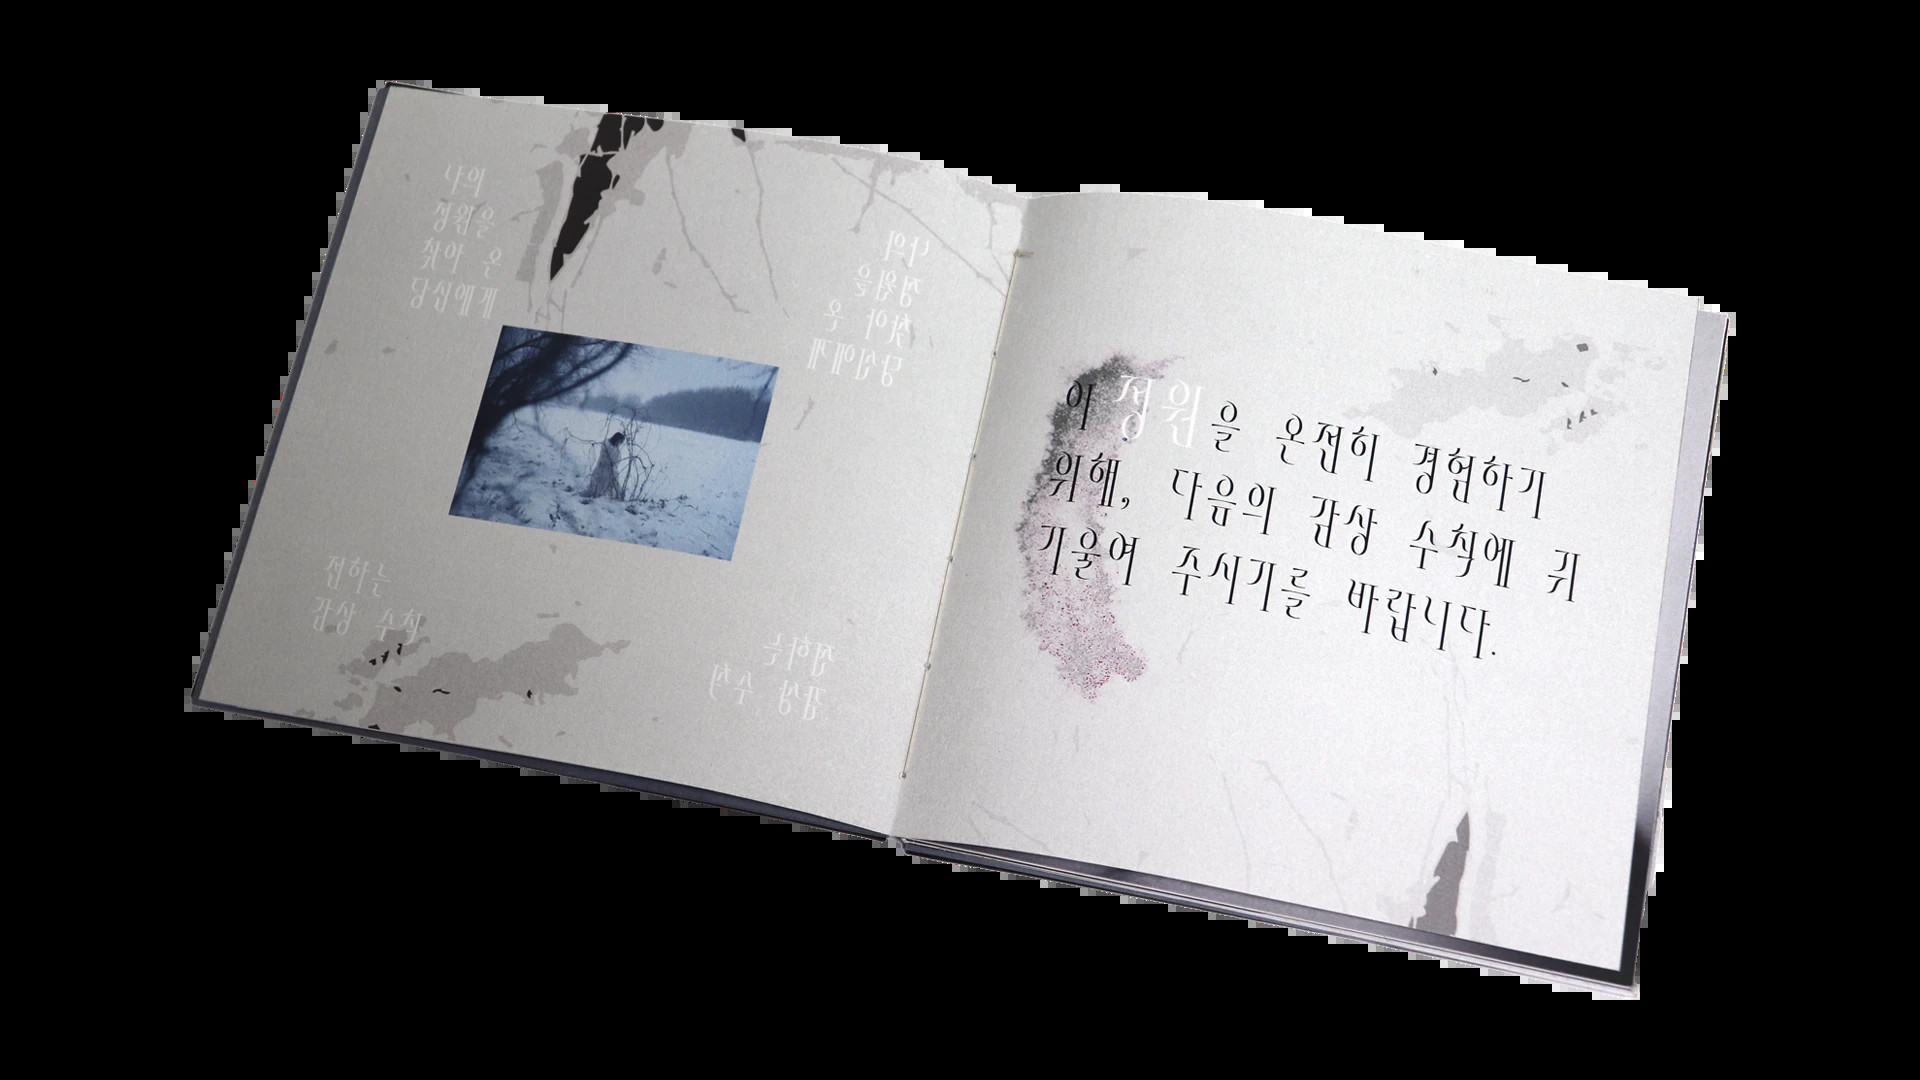
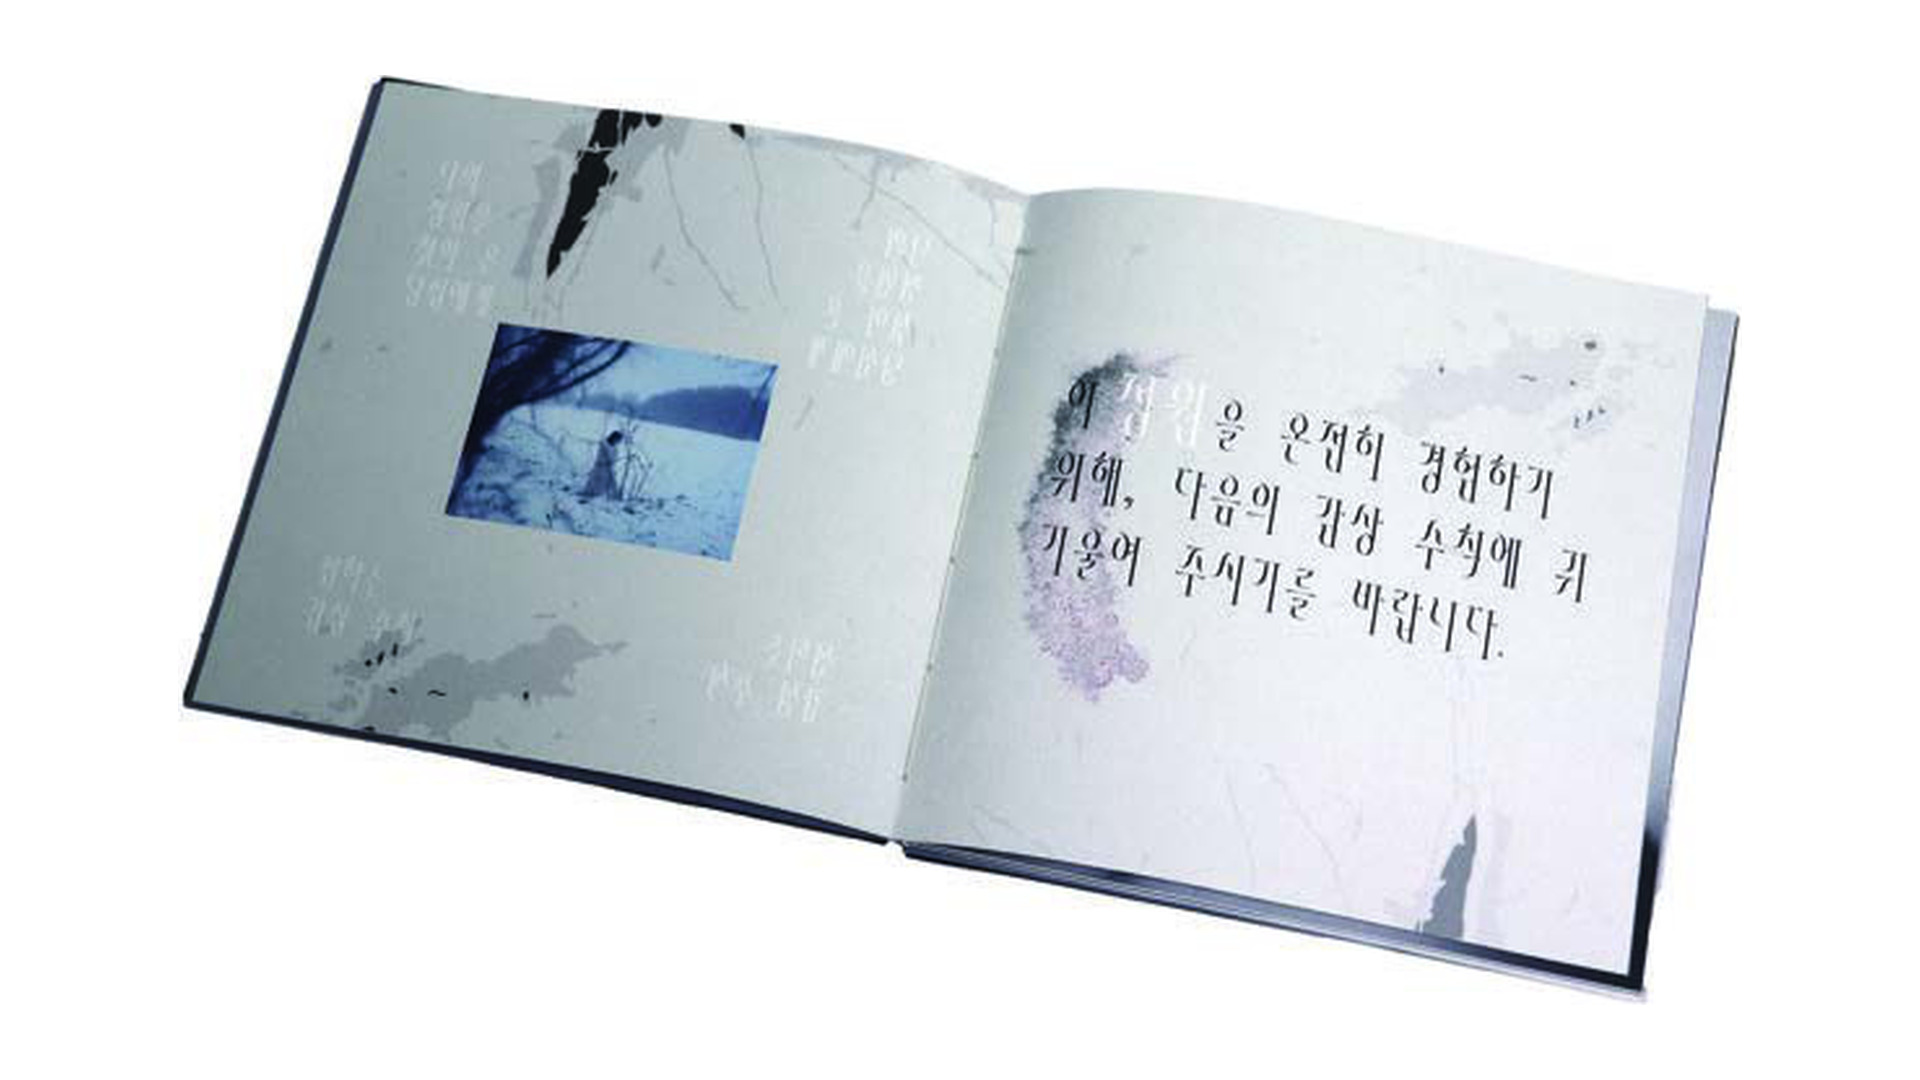
영문판에서 한국어 노출 제거 + 글·아카이브 영문 번역
- 영문 모드: 작업 제목·내비게이션·이름 아래 한글 라벨을 숨김 (About 본문은 아직 원고 대기)
- 글 2편과 아카이브 4항목에 영문 번역 추가 (en 하위 객체 + P() 헬퍼)
- 연락처: 영문판 전화 +1 (213) 783 6230, Based in Los Angeles
- 나의 정원에게 지면 4장을 복수전공 포트폴리오 원본에서 다시 추출
  (기존 컷아웃은 원본 가장자리가 계단형이라 흰 배경에서 깨져 보였음)

diff --git a/assets/js/app.js b/assets/js/app.js
@@ -46,6 +46,8 @@
   function esc(s) { return String(s == null ? "" : s).replace(/[&<>"']/g, function (c) { return ({ "&": "&amp;", "<": "&lt;", ">": "&gt;", '"': "&quot;", "'": "&#39;" })[c]; }); }
   function cat(key) { for (var i = 0; i < S.categories.length; i++) if (S.categories[i].key === key) return S.categories[i]; return { ko: key, en: key }; }
   function catName(key) { var c = cat(key); return lang === "en" ? c.en : c.ko; }
+  /* 글·아카이브처럼 한 덩어리에 en 하위 객체를 둔 항목에서 언어에 맞는 값을 고른다 */
+  function P(o, k) { return (lang === "en" && o.en && o.en[k]) ? o.en[k] : o[k]; }
   function resolve(p) { return (window.RESOLVE_ASSET ? window.RESOLVE_ASSET(p) : p); }
   function img(w, name) { return resolve("/images/works/" + name); }
   function bodyOf(w) { return (lang === "en" && w.bodyEn && w.bodyEn.length) ? w.bodyEn : w.body; }
@@ -112,7 +114,7 @@
     if (!seg[0]) return lang === "en" ? "Yea Bin Shin" : "신예빈";
     if (seg[0] === "work") { var w = find(seg[1]); return w ? L(w.title) : t("works"); }
     if (seg[0] === "admin") return "관리자";
-    if (seg[0] === "writing" && seg[1]) { var o = WRITINGS_().filter(function (x) { return x.slug === seg[1]; })[0]; return o ? o.title : t("writing"); }
+    if (seg[0] === "writing" && seg[1]) { var o = WRITINGS_().filter(function (x) { return x.slug === seg[1]; })[0]; return o ? P(o, "title") : t("writing"); }
     return t(seg[0] === "works" ? "works" : seg[0]) || "";
   }
   function find(slug) { return WORKS_().filter(function (w) { return w.slug === slug; })[0]; }
@@ -131,10 +133,10 @@
       picks.map(function (w, i) {
         return '<a class="cl-fig cl-' + (i + 1) + '" href="/work/' + w.slug + '" data-link data-d="' + DEPTH[i] + '">' +
           '<img src="' + img(w, w.cover || w.images[0]) + '" alt="' + esc(L(w.title)) + '" ' + (i > 1 ? 'loading="lazy"' : '') + '>' +
-          '<span class="cl-cap">' + esc(w.title.ko) + ' — ' + esc(w.year) + '</span></a>';
+          '<span class="cl-cap">' + esc(L(w.title)) + ' — ' + esc(w.year) + '</span></a>';
       }).join("") + '</div>' +
       '<div class="cl-meta">' +
-      '<h1 class="cl-name">' + esc(S.name.en.toLowerCase()) + '<small>' + esc(S.name.ko) + '</small></h1>' +
+      '<h1 class="cl-name">' + esc(S.name.en.toLowerCase()) + (lang === "en" ? "" : '<small>' + esc(S.name.ko) + '</small>') + '</h1>' +
       '<p class="cl-idx">' + WORKS_().length + ' works<br>' + S.categories.length + ' categories</p>' +
       '<p class="cl-motto">' + esc(L(S.motto)) + '</p>' +
       '<p class="cl-role">' + esc(L(S.role)) + '</p>' +
@@ -199,7 +201,7 @@
     return '<a class="card" href="/work/' + w.slug + '" data-link>' +
       '<span class="frame">' + ((w.cover || (w.images && w.images[0])) ? '<img src="' + img(w, w.cover || w.images[0]) + '" alt="' + esc(L(w.title)) + '" loading="lazy">' : '<span class="noimg"></span>') + '</span>' +
       '<span class="meta"><span class="no">' + String((i || 0) + 1).padStart(2, "0") + '</span>' +
-      '<h3>' + esc(w.title.ko) + '<span class="en">' + esc(w.title.en) + '</span></h3></span>' +
+      '<h3>' + (lang === "en" ? esc(w.title.en) : esc(w.title.ko) + '<span class="en">' + esc(w.title.en) + '</span>') + '</h3></span>' +
       '<span class="cap">' + esc(L(w.caption)) + '</span>' +
       '</a>';
   }
@@ -230,7 +232,7 @@
       '<span><a href="/works" data-link>' + esc(t("back")) + '</a></span></p>' +
 
       '<div class="detail-head">' +
-      '<h1>' + esc(w.title.ko) + '<span class="en">' + esc(w.title.en) + '</span></h1>' +
+      '<h1>' + (lang === "en" ? esc(w.title.en) : esc(w.title.ko) + '<span class="en">' + esc(w.title.en) + '</span>') + '</h1>' +
       '<div class="detail-side">' +
       row(t("year"), esc(w.year)) +
       row(t("role"), esc(L(w.role))) +
@@ -363,18 +365,18 @@
       '<div class="posts">' + WRITINGS_().map(function (o) {
         return '<a class="post-row" href="/writing/' + o.slug + '" data-link>' +
           '<span class="d">' + esc(o.date) + '</span>' +
-          '<span><h3>' + esc(o.title) + '</h3>' + (o.lead ? '<p class="lead">' + esc(o.lead) + '</p>' : "") + '</span>' +
-          '<span class="k">' + esc(o.kind || "") + '</span></a>';
+          '<span><h3>' + esc(P(o, "title")) + '</h3>' + (P(o, "lead") ? '<p class="lead">' + esc(P(o, "lead")) + '</p>' : "") + '</span>' +
+          '<span class="k">' + esc(P(o, "kind") || "") + '</span></a>';
       }).join("") + '</div></div>';
   }
   function viewPost(slug) {
     var o = WRITINGS_().filter(function (x) { return x.slug === slug; })[0];
     if (!o) return '<div class="page"><p class="empty">' + t("notFound") + '</p></div>';
     return '<div class="page">' +
-      '<p class="eyebrow"><span><a href="/writing" data-link>&larr; ' + esc(t("writing")) + '</a></span><span>' + esc(o.kind || "") + '</span></p>' +
-      '<article class="article"><p class="d">' + esc(o.date) + '</p><h1>' + esc(o.title) + '</h1>' +
+      '<p class="eyebrow"><span><a href="/writing" data-link>&larr; ' + esc(t("writing")) + '</a></span><span>' + esc(P(o, "kind") || "") + '</span></p>' +
+      '<article class="article"><p class="d">' + esc(o.date) + '</p><h1>' + esc(P(o, "title")) + '</h1>' +
       (o.image ? '<figure class="fig"><img src="' + esc(resolve(o.image)) + '" alt=""></figure>' : "") +
-      o.body.map(function (p) { return "<p>" + esc(p) + "</p>"; }).join("") +
+      P(o, "body").map(function (p) { return "<p>" + esc(p) + "</p>"; }).join("") +
       '</article></div>';
   }
 
@@ -387,8 +389,8 @@
         return '<article class="arch">' +
           (a.src ? '<figure class="frame" data-full="' + esc(resolve(a.src)) + '"><img src="' + esc(resolve(a.src)) + '" alt="" loading="lazy"></figure>' : "") +
           '<p class="k">' + esc(T[lang].kinds[a.kind] || a.kind || "") + '</p>' +
-          '<h3>' + esc(a.title) + '</h3>' +
-          (a.note ? '<p>' + esc(a.note) + '</p>' : "") +
+          '<h3>' + esc(P(a, "title")) + '</h3>' +
+          (P(a, "note") ? '<p>' + esc(P(a, "note")) + '</p>' : "") +
           (a.url ? '<a class="lnk" href="' + esc(a.url) + '" target="_blank" rel="noopener">listen / open &nearr;</a>' : "") +
           (a.date ? '<p class="dt">' + esc(a.date) + '</p>' : "") +
           '</article>';
@@ -398,12 +400,13 @@
   /* ---------- 연락 ---------- */
   function viewContact() {
     var c = S.contact;
+    function L2(o, k) { var v = o[k]; return (v && typeof v === "object") ? (v[lang] || v.ko || v.en) : v; }
     return '<div class="page"><p class="eyebrow"><span>' + esc(t("contact")) + '</span><span>' + esc(L(S.name)) + '</span></p>' +
       '<div class="contact-wrap"><h1>' + esc(L(S.motto)).replace(/\n/g, " ") + '</h1>' +
       '<div class="contact-row"><span class="k">EMAIL</span><a href="mailto:' + esc(c.email) + '">' + esc(c.email) + '</a></div>' +
-      (c.phone ? '<div class="contact-row"><span class="k">PHONE</span><span>' + esc(c.phone) + '</span></div>' : "") +
+      (L2(c, "phone") ? '<div class="contact-row"><span class="k">PHONE</span><span>' + esc(L2(c, "phone")) + '</span></div>' : "") +
       (c.instagram ? '<div class="contact-row"><span class="k">INSTAGRAM</span><a href="' + esc(c.instagram) + '" target="_blank" rel="noopener">@' + esc(c.instagram.split("/").filter(Boolean).pop()) + '</a></div>' : "") +
-      '<div class="contact-row"><span class="k">BASED IN</span><span>Seoul</span></div>' +
+      '<div class="contact-row"><span class="k">BASED IN</span><span>' + esc(L2(c, "basedIn") || "Seoul") + '</span></div>' +
       '</div></div>';
   }
 

diff --git a/content/archive.js b/content/archive.js
@@ -14,25 +14,41 @@ window.ARCHIVE = [
     kind: "book",
     date: "2025",
     title: "윌리엄 해즐릿, 『혐오의 즐거움에 관하여』",
-    note: "혐오는 회피해야 할 감정이 아니라 살아 있음을 확인하게 하는 모순적인 감정 중 하나라는 문장. 에칭 작업과 북 디자인이 모두 여기서 출발했다."
+    note: "혐오는 회피해야 할 감정이 아니라 살아 있음을 확인하게 하는 모순적인 감정 중 하나라는 문장. 에칭 작업과 북 디자인이 모두 여기서 출발했다.",
+    en: {
+      title: "William Hazlitt, 『On the Pleasure of Hating』",
+      note: "The line that disgust is not something to be avoided but one of the contradictory feelings that prove you are alive. Both the etchings and the book design started here."
+    }
   },
   {
     kind: "book",
     date: "2025",
     title: "C.S. 루이스, 『나니아 연대기』",
-    note: "버려지는 영수증을 차원 이동 티켓으로 바꿔 본 이유. 사소한 사물도 하나의 세계관을 매개하는 서사적 물질이 될 수 있다."
+    note: "버려지는 영수증을 차원 이동 티켓으로 바꿔 본 이유. 사소한 사물도 하나의 세계관을 매개하는 서사적 물질이 될 수 있다.",
+    en: {
+      title: "C.S. Lewis, 『The Chronicles of Narnia』",
+      note: "Why a thrown-away receipt became a ticket between worlds. Even a trivial object can carry a whole world, if you let it."
+    }
   },
   {
     kind: "text",
     date: "2025",
     title: "“잠시만”",
-    note: "멈추고 숨을 고르기 위한 최소한의 여지를 만들어내는 말. 이어폰을 꽂는 순간이 나에게는 그 ‘잠시’다."
+    note: "멈추고 숨을 고르기 위한 최소한의 여지를 만들어내는 말. 이어폰을 꽂는 순간이 나에게는 그 ‘잠시’다.",
+    en: {
+      title: "“Just a moment”",
+      note: "A phrase that opens the smallest possible room to stop and catch your breath. For me that moment is the second the earphones go in."
+    }
   },
   {
     kind: "space",
     date: "2025",
     title: "판화실",
-    note: "누군가에게는 사소해 보이지만 판화인들에게는 창작의 필수적인 궤적. 흔적과 도구들을 모아 아카이브로 만들었다."
+    note: "누군가에게는 사소해 보이지만 판화인들에게는 창작의 필수적인 궤적. 흔적과 도구들을 모아 아카이브로 만들었다.",
+    en: {
+      title: "The printmaking studio",
+      note: "Trivial to most people, but to printmakers it is the necessary trace of the work. I collected those marks and tools and made them into an archive."
+    }
   }
 
   /* 여기에 새 항목을 추가하세요 ↓ (윗줄 } 뒤에 쉼표 , 를 꼭 붙이고)

diff --git a/content/writings.js b/content/writings.js
@@ -16,6 +16,17 @@ window.WRITINGS = [
     kind: "기획의 글",
     title: "가짜인가, 진짜인가 — PAPER COMPANY 서문",
     lead: "PP 매거진 3호를 준비하며 쓴 서문.",
+    en: {
+      kind: "Editor's note",
+      title: "Fake or Real — foreword to PAPER COMPANY",
+      lead: "Written while preparing PP Magazine Vol.3.",
+      body: [
+        "The fingertips that once made prints were called the ‘Printer’. The word that defines our own time may turn out to be AI.",
+        "Standing in front of images formed not from the materiality of things we know how to touch, but from algorithms and data, we meet strangeness and possibility in the same moment. Art, standing on yet another border, asks: is it fake or real, a tool or a maker?",
+        "We prepared this issue at the point where public argument and new technique cross each other, asking what view and what posture an artist in their twenties can reasonably hold.",
+        "The title papercompany holds that posture — looking straight at AI art, which has carried the brand of ‘fake’, while looking for what might still grow inside it."
+      ]
+    },
     image: "/images/works/p45.jpg",
     body: [
       "한때 판화를 만들던 손끝을 ‘Printer’라 불렀듯, 오늘 우리의 시대를 규정하는 단어는 AI일지 모릅니다.",
@@ -30,6 +41,16 @@ window.WRITINGS = [
     kind: "기획의 글",
     title: "장벽으로서의 BLOCK, 조건으로서의 BLOCK",
     lead: "판화 백과사전 〈BEYOND THE BLOCK〉을 기획하며.",
+    en: {
+      kind: "Editor's note",
+      title: "The block as a barrier, the block as a condition",
+      lead: "Written while planning 〈BEYOND THE BLOCK〉, a printmaking encyclopedia.",
+      body: [
+        "A heavy press, unfamiliar terms, a long process. These are the pictures that follow the word printmaking around. And next to all of them there is always a block.",
+        "The block is where printmaking begins — the surface an image is carried on. For anyone outside the field, it is also where they stop.",
+        "We wanted to move between the two: the block as a barrier, and the block as a working condition. Printmaking read not as a set of techniques but as a way of thinking. The book is open enough for anyone to enter, and it keeps asking how far that boundary can be pushed — making the question itself the ground the story is printed on."
+      ]
+    },
     image: "/images/works/p47.jpg",
     body: [
       "무거운 프레스기, 낯선 용어, 복잡한 공정. 판화를 떠올리면 자연스럽게 따라붙는 이미지들입니다. 그리고 그 옆에는 늘 BLOCK이 존재합니다.",

diff --git a/assets/css/style.css b/assets/css/style.css
@@ -488,3 +488,6 @@ h1,h2,h3{font-weight:400;margin:0}
 .vid video{display:block;width:100%;max-width:560px;margin:0 auto;background:#0b0c0e;
   border-radius:2px;box-shadow:0 18px 50px rgba(20,22,26,.14)}
 @media(max-width:700px){ .vid video{max-width:100%} }
+
+/* 영문 모드에서는 내비게이션의 한글 라벨을 숨긴다 */
+html[lang="en"] .nav a[data-nav] i{display:none}

diff --git a/content/site.js b/content/site.js
@@ -18,7 +18,8 @@ window.SITE = {
 
   contact: {
     email: "syblime1209@naver.com",
-    phone: "010-6346-7554",
+    phone: { ko: "010-6346-7554", en: "+1 (213) 783 6230" },
+    basedIn: { ko: "Seoul", en: "Los Angeles" },
     instagram: ""   /* 예: "https://instagram.com/아이디" — 비워두면 표시되지 않습니다 */
   },
 
